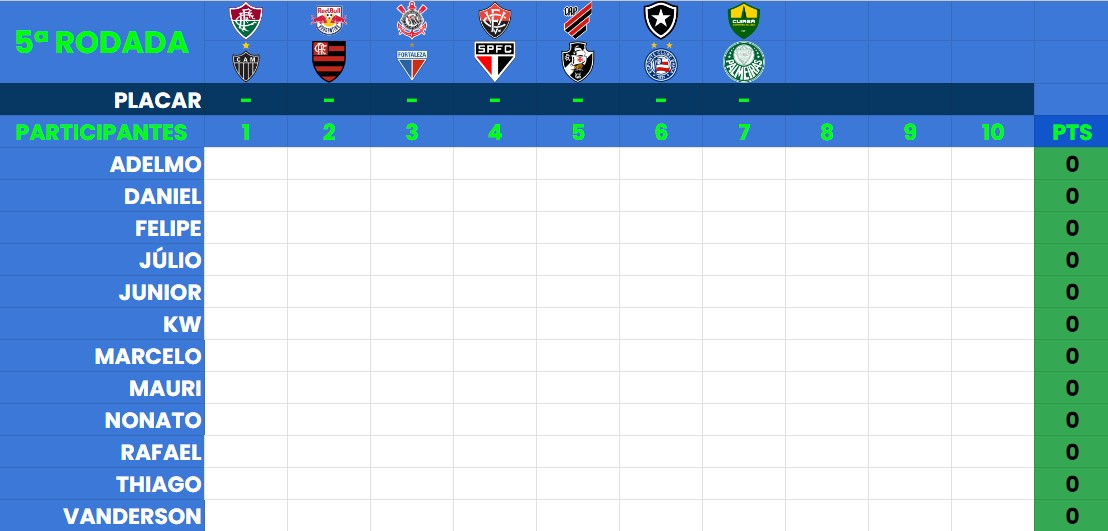
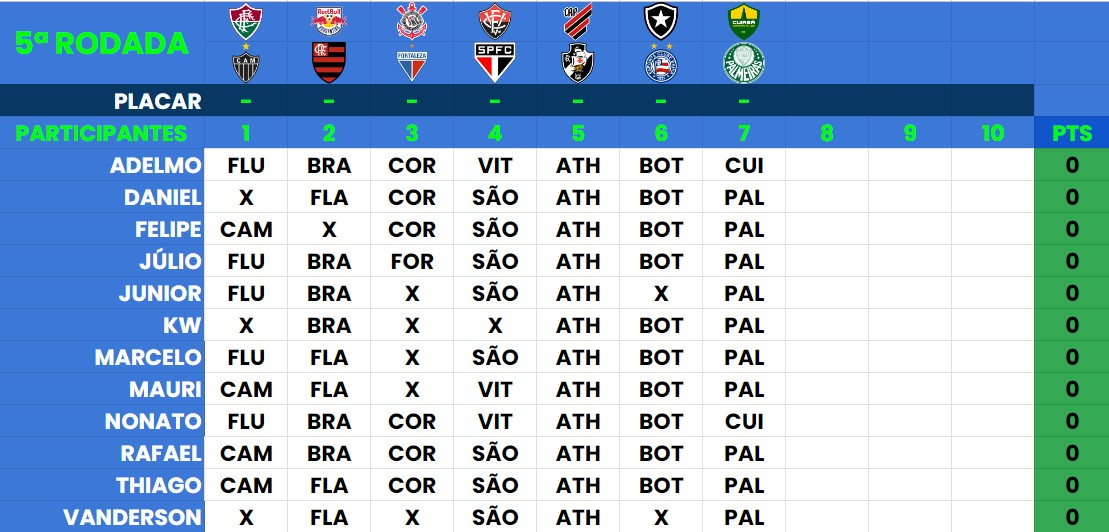
u

diff --git a/index.html b/index.html
@@ -51,12 +51,12 @@
           <img src="./assets/Round5.jpg" alt="Logo do Campeonato Brasileiro 2022" />
         </div>
         <div class="text">
-          <h2 class="title"><a href="./palpites_05.html">MERCADO ABERTO!</a>
+          <h2 class="title"><a href="./predictor.html">MERCADO FECHADO!</a>
           </h2>
           <p>
-            Rodada não conta com três jogos que foram adiados
+            Acompanhem os resultados
           </p>
-          <a class="button" href="./palpites_05.html">Palpitem na 5ª Rodada aqui</a>
+          <a class="button" href="./predictor.html">Resumão da 5ª Rodada</a>
         </div>
       </div>
     </section>
